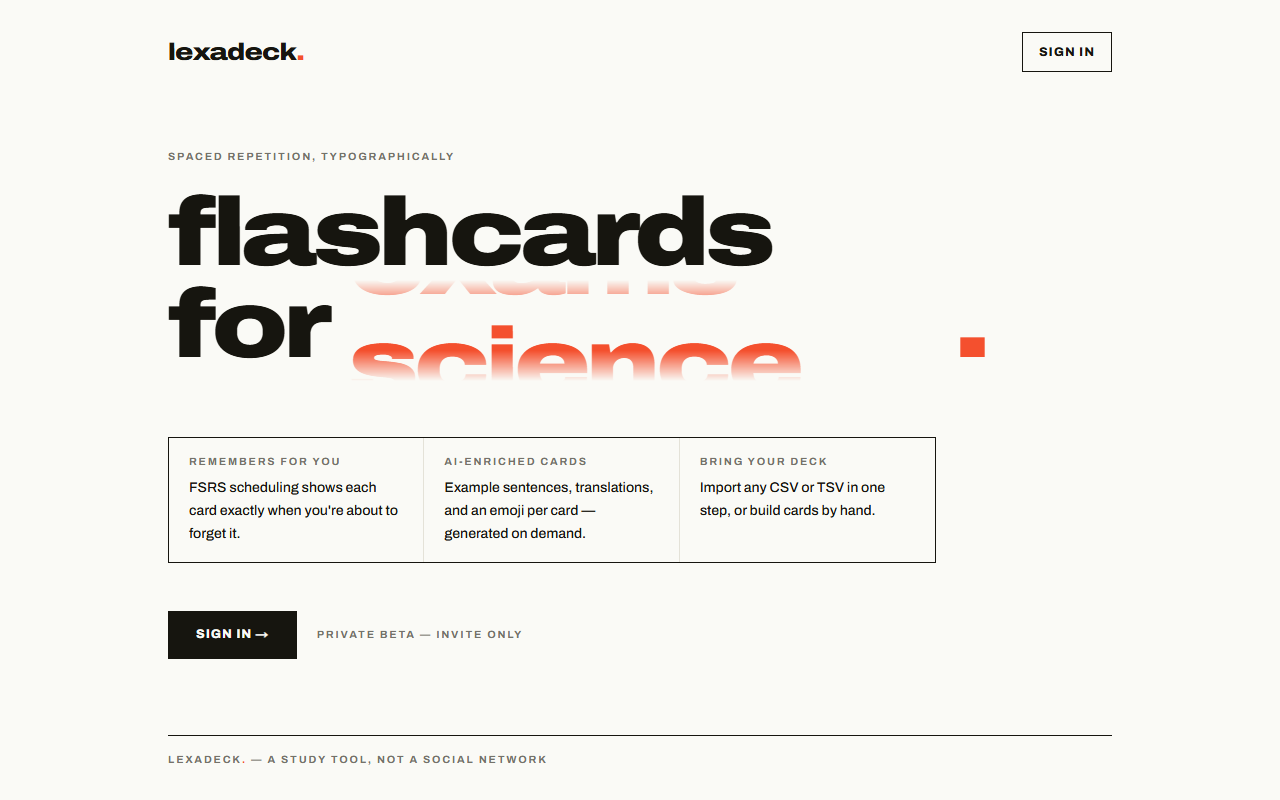
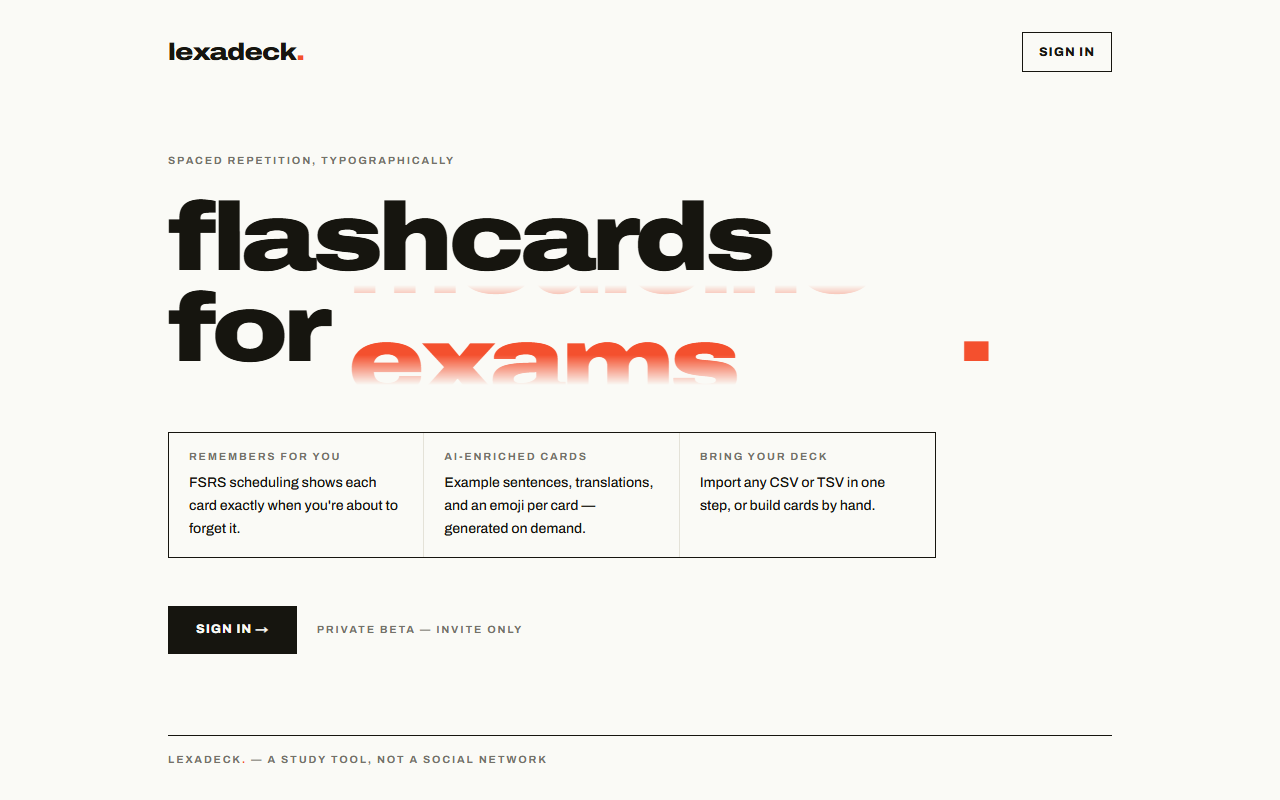
Zero-reflow reel + breathing room before the period
The reel window (1.05em, taller than the 0.95 headline line-height) was
growing the line box during the spin, so the whole page juddered down a few
px when the static swap landed. The window's layout margin box is now shrunk
to a 0.25em sliver inside the text strut (negative vertical margins,
compensating align), making the line box purely text-driven — verified
spin-vs-static layout delta is 0.00px. Also 0.04em gap before the period;
the g's ink was touching it.

diff --git a/components/ui/WordSpinner.tsx b/components/ui/WordSpinner.tsx
@@ -51,10 +51,15 @@ export function WordSpinner({
   const yWindup = rowPct(rows - 2 + 0.4); // lever pull: nudge up 40% of a row
   const yLanded = "0%"; // settle word at the top of the strip
 
+  // The window paints 1.05em tall (descenders need the room) but its layout
+  // margin box is shrunk to a 0.25em sliver that sits inside the text strut,
+  // so the line box is purely text-driven — identical during the spin and
+  // after the swap to static text (no reflow below, ever). The positive
+  // align offsets the negative margins: alignment uses the margin edge.
   return (
     <motion.span
       data-reel
-      className={`relative inline-block h-[1.05em] overflow-hidden align-[-0.25em] ${
+      className={`relative my-[-0.4em] inline-block h-[1.05em] overflow-hidden align-[0.15em] ${
         landed ? "" : "[mask-image:linear-gradient(to_bottom,transparent,black_30%,black_70%,transparent)]"
       } ${className}`}
       animate={landed && settleWidth ? { width: settleWidth } : undefined}

diff --git a/app/welcome/page.tsx b/app/welcome/page.tsx
@@ -29,7 +29,9 @@ export default async function WelcomePage() {
           <br />
           for{" "}
           <span className="whitespace-nowrap text-coral">
-            <WordSpinner words={SPINNER_WORDS} settleOn="anything" />.
+            <WordSpinner words={SPINNER_WORDS} settleOn="anything" />
+            {/* breathing room — the g's ink and the period abut at this tracking */}
+            <span className="ml-[0.04em]">.</span>
           </span>
         </h1>
 